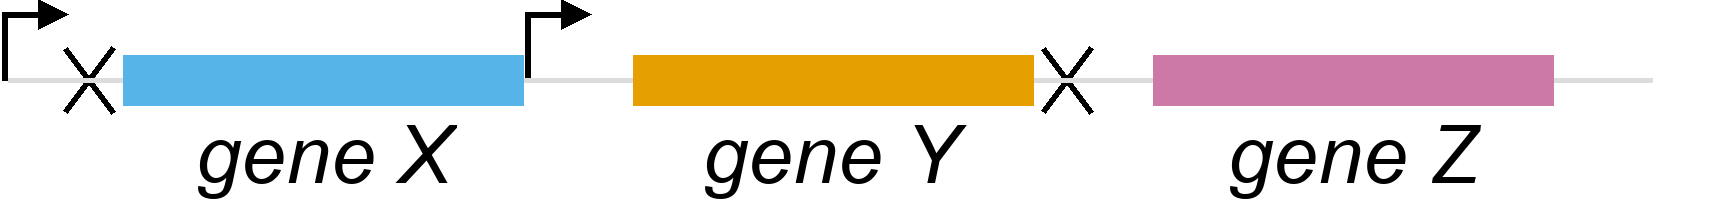
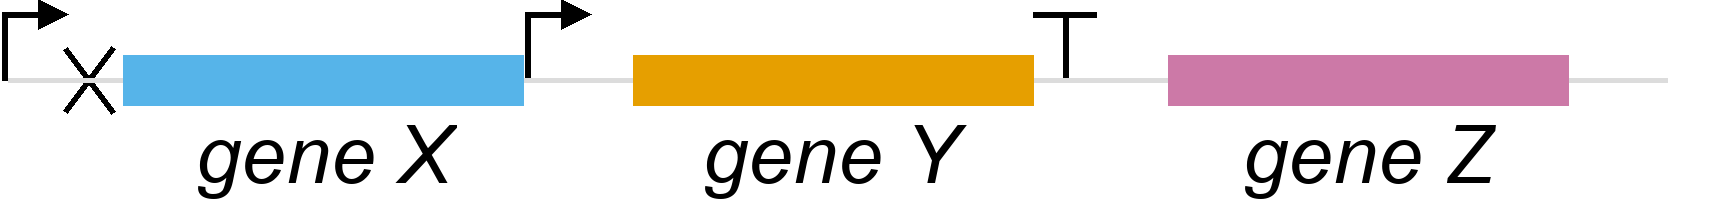
Optimized simulated annealing and updated r scripts.

diff --git a/src/python/manuscript_figures/figure1_genome_architecture.py b/src/python/manuscript_figures/figure1_genome_architecture.py
@@ -227,12 +227,12 @@ def create_genome_architecture(gene_file, output_dir):
                     gene3_x_right += prom_offset
                     genome_end += prom_offset+30
                 elif 'terminator' in min_element:
-                    draw.line(((gene1_x_right+166, y_mid_area), (gene1_x_right+166, element_y_top)), fill=(0, 0, 0), width=6)
-                    draw.line(((gene1_x_right+131, element_y_top), (gene1_x_right+197, element_y_top)), fill=(0, 0, 0), width=6)
-                    gene2_x_left += term_offset+5
-                    gene2_x_right += term_offset+5
-                    gene3_x_left += term_offset+5
-                    gene3_x_right += term_offset+5
+                    draw.line(((gene1_x_right+196, y_mid_area), (gene1_x_right+196, element_y_top)), fill=(0, 0, 0), width=6)
+                    draw.line(((gene1_x_right+161, element_y_top), (gene1_x_right+227, element_y_top)), fill=(0, 0, 0), width=6)
+                    gene2_x_left += term_offset+70
+                    gene2_x_right += term_offset+70
+                    gene3_x_left += term_offset+70
+                    gene3_x_right += term_offset+70
                     genome_end += term_offset+40
                 elif 'rnase' in min_element:
                     draw.line(((gene1_x_right+150, gene1_y_top-7), (gene1_x_right+198, gene1_y_bottom+7)), fill=(0, 0, 0), width=6)
@@ -296,9 +296,9 @@ def create_genome_architecture(gene_file, output_dir):
                     draw.line(((gene2_x_right+155, y_mid_area), (gene2_x_right+155, element_y_top)), fill=(0, 0, 0), width=6)
                     draw.line(((gene2_x_right+152, element_y_top), (gene2_x_right+188, element_y_top)), fill=(0, 0, 0), width=6)
                     draw.polygon(((gene2_x_right+218, element_y_top), (gene2_x_right+188, element_y_top-15), (gene2_x_right+188, element_y_top+15)), fill=(0, 0, 0))
-                    gene3_x_left += prom_offset+5
-                    gene3_x_right += prom_offset+5
-                    genome_end += prom_offset+5
+                    gene3_x_left += prom_offset+60
+                    gene3_x_right += prom_offset+60
+                    genome_end += prom_offset+60
                 elif 'terminator' in min_element:
                     draw.line(((gene2_x_right+195, y_mid_area), (gene2_x_right+195, element_y_top)), fill=(0, 0, 0), width=6)
                     draw.line(((gene2_x_right+160, element_y_top), (gene2_x_right+226, element_y_top)), fill=(0, 0, 0), width=6)
@@ -374,27 +374,27 @@ def main():
 
     #Figure 2
     #Final first genome architecture
-    with open('../../../results/2020_7_2/paper_data1_rep1_nmut20/final/gene_best.yml', 'r') as gene_parameters:
+    with open('../../../results/2020_7_7/paper_data1_rep2_nmut10/final/gene_best.yml', 'r') as gene_parameters:
         gene_file = yaml.safe_load(gene_parameters)
     output_dir = '../../../data/figures/figure2/figure2_final1_genome_arch.png'
     create_genome_architecture(gene_file, output_dir)
     #Final second genome architecture
-    with open('../../../results/2020_7_2/paper_data3_rep1_nmut20/final/gene_best.yml', 'r') as gene_parameters:
+    with open('../../../results/2020_7_7/paper_data3_rep1_nmut10/final/gene_best.yml', 'r') as gene_parameters:
         gene_file = yaml.safe_load(gene_parameters)
     output_dir = '../../../data/figures/figure2/figure2_final2_genome_arch.png'
     create_genome_architecture(gene_file, output_dir)
     #Final third genome architecture
-    with open('../../../results/2020_7_2/paper_data7_rep1_nmut20/final/gene_best.yml', 'r') as gene_parameters:
+    with open('../../../results/2020_7_7/paper_data7_rep1_nmut10/final/gene_best.yml', 'r') as gene_parameters:
         gene_file = yaml.safe_load(gene_parameters)
     output_dir = '../../../data/figures/figure2/figure2_final3_genome_arch.png'
     create_genome_architecture(gene_file, output_dir)
     #Final fourth genome architecture
-    with open('../../../results/2020_7_2/paper_data13_rep2_nmut20/final/gene_best.yml', 'r') as gene_parameters:
+    with open('../../../results/2020_7_7/paper_data16_rep2_nmut10/final/gene_best.yml', 'r') as gene_parameters:
         gene_file = yaml.safe_load(gene_parameters)
     output_dir = '../../../data/figures/figure2/figure2_final4_genome_arch.png'
     create_genome_architecture(gene_file, output_dir)
     #Final fifth genome architecture
-    with open('../../../results/2020_7_2/paper_data13_rep3_nmut20/final/gene_best.yml', 'r') as gene_parameters:
+    with open('../../../results/2020_7_7/paper_data17_rep1_nmut10/final/gene_best.yml', 'r') as gene_parameters:
         gene_file = yaml.safe_load(gene_parameters)
     output_dir = '../../../data/figures/figure2/figure2_final5_genome_arch.png'
     create_genome_architecture(gene_file, output_dir)

diff --git a/src/python/lib/file_setup.py b/src/python/lib/file_setup.py
@@ -6,7 +6,8 @@ def rearrange_file(file, max_time, num_genes):
     Rearranges files so that the target input file can be compared to the simulated output file so that sum of squares can be easily calculated.
     Input(s):
     file is the transcript abundances file outputted from pinetree.
-    genome_tracker_new is the dataframe containing the most recently edited genomic data.
+    max_time is the amount of time for the infection cycle that pinetree is simulating.
+    num_genes is the total number of genes on the genome.
     Output(s):
     file is a dataframe with a modified layout.
     """

diff --git a/src/python/lib/mutation_choices.py b/src/python/lib/mutation_choices.py
@@ -302,8 +302,6 @@ def cleanup_genome(output_dir, target_file, rmse_df, replicate_mutations, num_ge
     genome_tracker_saved = copy.deepcopy(genome_tracker_best)
     #Calculate RMSE for best genome and get a range of values
     rmse_best = mutation_analysis.analyze_mutation(genome_tracker_best, output_dir, target_file, 20, deg_rate, True)
-    if replicate_mutations == 1:
-        rmse_best.append(ss_best[0])
 
     #Iterate through each element and remove them and compare RMSE values of new architecture to the best architecture previously found
     for gene in range(num_genes+1):

diff --git a/src/python/lib/fitness_score.py b/src/python/lib/fitness_score.py
@@ -1,8 +1,6 @@
 import math
 import sys
 
-#1e-5
-
 #Calculates the fitness of the new mutation
 def calc_fitness(variant_fit, orig_fit, generations, count):
     """
@@ -23,7 +21,7 @@ def calc_fitness(variant_fit, orig_fit, generations, count):
         beta = 1e-2
     else:
         #y = mx + b: linearly increases
-        slope = (0.5 - 1e-2) / generations
+        slope = (1.0 - 1e-2) / (0.9 * generations)
         beta = (slope * (count - (0.1 * generations))) + 1e-2
     thresholds = 0
 
